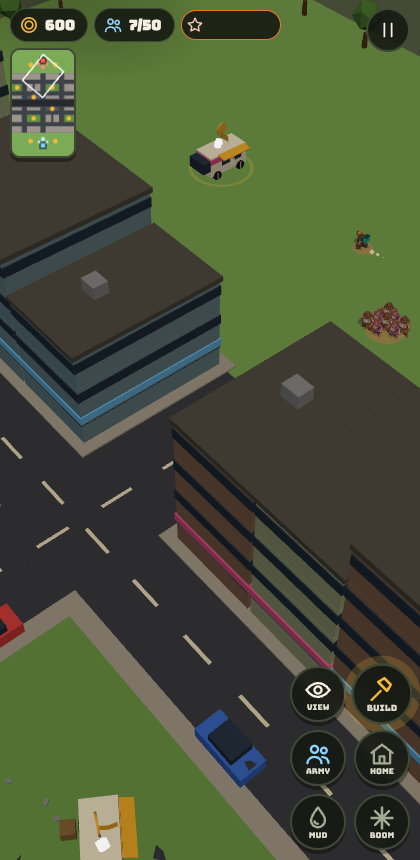
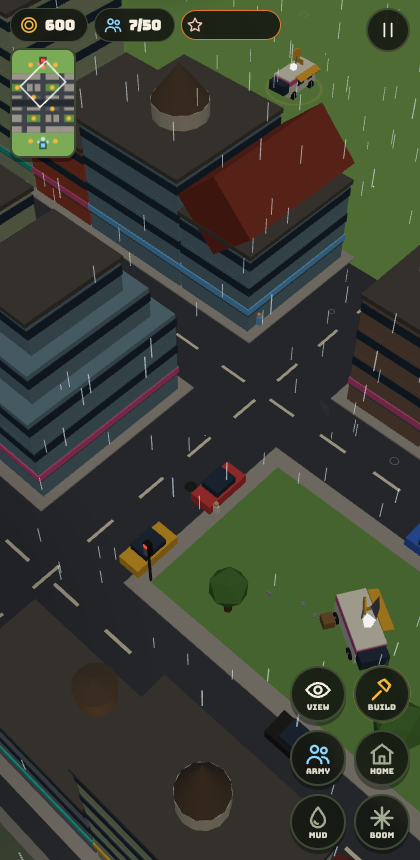
B133: city storefronts in six shapes (setback towers, pitched roofs, domes, water towers, spires)
Claude-Session: https://claude.ai/code/session_01FXzpagnksiDmMAqP3MTiXJ

diff --git a/src/render/world.js b/src/render/world.js
@@ -1,10 +1,10 @@
 // Static city: streets, sidewalks, buildings, parks, freeway trench + overpasses, ambient traffic.
 // Built once from map/layout.js. Mostly InstancedMesh so it stays cheap on phones.
-import { THREE, scene, mat, box, setOvercast } from './scene.js?v=131';
-import { CAM } from '../camera/camera.js?v=131';
-import { MAP, BLOCKS, CITY, TREES, PARKED, TRENCH, OVERPASSES, AVENUES, CROSS_STREETS, HOME_Z, inRect, walkH } from '../map/layout.js?v=131';
-import { hash } from '../util/math.js?v=131';
-import { emit } from '../fx/particles.js?v=131';
+import { THREE, scene, mat, box, setOvercast } from './scene.js?v=133';
+import { CAM } from '../camera/camera.js?v=133';
+import { MAP, BLOCKS, CITY, TREES, PARKED, TRENCH, OVERPASSES, AVENUES, CROSS_STREETS, HOME_Z, inRect, walkH } from '../map/layout.js?v=133';
+import { hash } from '../util/math.js?v=133';
+import { emit } from '../fx/particles.js?v=133';
 
 const COL = {
   asphalt: 0x3d4148, sidewalk: 0xa8a49a, grass: 0x6f9e50, lawn: 0x7cab58, lot: 0x4b4f56, stripe: 0xe8e2c8,
@@ -276,21 +276,48 @@ let lampHeads = null, windows = null;
 // sign and AC unit per storefront. syncCity() hides the floors the sim says are gone and drops the roof onto the new top.
 let city = null;
 function buildCity() {
-  const floors = [], bands = [], roofs = [], signs = [], acs = [], idx = [];
+  const floors = [], bands = [], signs = [], acs = [], idx = [];
+  const parts = { flat: [], gable: [], dome: [], drum: [], tank: [], cone: [] }; // roof pieces by shape
   CITY.forEach((b, i) => {
-    const fh = b.h / b.floors, first = floors.length;
+    const fh = b.h / b.floors, first = floors.length, col = FACADES[Math.floor(b.c * FACADES.length)];
+    // Setback towers narrow as they rise: lower half full size, then 80%, top floors 60%.
+    const shrink = (f) => (b.style !== 1 ? 1 : f < b.floors / 2 ? 1 : f < b.floors - 1 ? 0.8 : 0.6);
     for (let f = 0; f < b.floors; f++) {
-      floors.push({ x: b.x, y: fh * f + fh / 2, z: b.z, sx: b.sx, sy: fh, sz: b.sz, c: FACADES[Math.floor(b.c * FACADES.length)] });
-      bands.push({ x: b.x, y: fh * f + fh * 0.7, z: b.z, sx: b.sx + 0.12, sy: f === 0 ? 0.01 : 0.8, sz: b.sz + 0.12 });
+      const k = shrink(f);
+      floors.push({ x: b.x, y: fh * f + fh / 2, z: b.z, sx: b.sx * k, sy: fh, sz: b.sz * k, c: col });
+      bands.push({ x: b.x, y: fh * f + fh * 0.7, z: b.z, sx: b.sx * k + 0.12, sy: f === 0 ? 0.01 : 0.8, sz: b.sz * k + 0.12 });
     }
-    roofs.push({ x: b.x, y: b.h + 0.2, z: b.z, sx: b.sx + 0.3, sy: 0.4, sz: b.sz + 0.3 });
+    const top = shrink(b.floors - 1), w = b.sx * top, d = b.sz * top, rp = [];
+    const add = (kind, it) => { parts[kind].push({ ...it, ci: i }); rp.push([kind, parts[kind].length - 1]); };
+    add('flat', { x: b.x, y: b.h + 0.2, z: b.z, sx: w + 0.3, sy: 0.4, sz: d + 0.3 });
+    if (b.style === 2) { // a pitched roof: a box turned 45 deg about the ridge, sunk so only the top triangle shows
+      const m = Math.min(w, d) * 0.72, y = b.h + 0.4 + Math.min(w, d) * 0.22;
+      add('gable', w < d ? { x: b.x, y, z: b.z, sx: m, sy: m, sz: d * 1.02, rz: Math.PI / 4 } : { x: b.x, y, z: b.z, sx: w * 1.02, sy: m, sz: m, rx: Math.PI / 4 });
+    }
+    if (b.style === 3) { const r = Math.min(w, d) * 0.38; add('drum', { x: b.x, y: b.h + 0.4 + 0.6, z: b.z, sx: r, sy: 1.2, sz: r }); add('dome', { x: b.x, y: b.h + 1.6, z: b.z, sx: r, sy: r, sz: r }); }
+    if (b.style === 4) { const tx = b.x + w * 0.2, tz = b.z - d * 0.2; add('drum', { x: tx, y: b.h + 1.2, z: tz, sx: 0.08, sy: 2, sz: 0.08 }); add('tank', { x: tx, y: b.h + 2.6, z: tz, sx: 1.1, sy: 1.6, sz: 1.1 }); add('cone', { x: tx, y: b.h + 3.75, z: tz, sx: 1.25, sy: 0.7, sz: 1.25 }); }
+    if (b.style === 5) { add('drum', { x: b.x, y: b.h + 1, z: b.z, sx: Math.min(w, d) * 0.22, sy: 1.6, sz: Math.min(w, d) * 0.22 }); add('cone', { x: b.x, y: b.h + 3.4, z: b.z, sx: Math.min(w, d) * 0.22, sy: 3.2, sz: Math.min(w, d) * 0.22 }); }
     signs.push({ x: b.x, y: 2.4, z: b.z, sx: b.sx + 0.2, sy: 0.6, sz: b.sz + 0.2, c: SIGNS[Math.floor(b.sign * SIGNS.length)] });
     acs.push(b.ac ? { x: b.x + b.ac[0], y: b.h + 0.9, z: b.z + b.ac[1], sx: 1.4, sy: 1, sz: 1.2 } : { x: 0, y: -50, z: 0, sx: 0.001, sy: 0.001, sz: 0.001 });
-    idx.push({ first, n: b.floors, fh, shown: b.floors });
+    idx.push({ first, n: b.floors, fh, shown: b.floors, rp });
   });
   const fl = instanced(unitBox, 0, floors, true), wb = instanced(unitBox, COL.glass, bands);
   windows = wb; windows.material = new THREE.MeshLambertMaterial({ color: COL.glass });
-  city = { fl, wb, roofs: instanced(unitBox, COL.roof, roofs), signs: instanced(unitBox, 0, signs, true), acs: instanced(unitBox, 0x8f939a, acs), floors, bands, roofList: roofs, acList: acs, signList: signs, idx };
+  const GEO = { flat: unitBox, gable: unitBox, dome: new THREE.SphereGeometry(1, 14, 7, 0, Math.PI * 2, 0, Math.PI / 2), drum: new THREE.CylinderGeometry(1, 1, 1, 14), tank: new THREE.CylinderGeometry(1, 1, 1, 12), cone: new THREE.ConeGeometry(1, 1, 12) };
+  const RCOL = { flat: COL.roof, gable: 0x8a3b2e, dome: 0x6fa59a, drum: 0xc9c1ad, tank: 0x8a6a4a, cone: 0x5a4a3a };
+  const roofIM = {};
+  for (const k in parts) {
+    if (!parts[k].length) continue;
+    const im = new THREE.InstancedMesh(GEO[k], mat(RCOL[k]), parts[k].length);
+    parts[k].forEach((it, j) => { setPart(im, j, it, 0); });
+    scene.add(im); roofIM[k] = im;
+  }
+  city = { fl, wb, roofIM, parts, signs: instanced(unitBox, 0, signs, true), acs: instanced(unitBox, 0x8f939a, acs), floors, bands, acList: acs, signList: signs, idx };
+}
+const _roofE = new THREE.Euler();
+function setPart(im, j, it, yOff) {
+  _roofE.set(it.rx || 0, 0, it.rz || 0); Q.setFromEuler(_roofE);
+  M.compose(V.set(it.x, it.y + yOff, it.z), Q, Sv.set(it.sx, it.sy, it.sz)); im.setMatrixAt(j, M);
 }
 const _hide = new THREE.Matrix4().makeScale(0, 0, 0);
 function setBox(im, i, it, yOff = 0) { M.compose(V.set(it.x, it.y + yOff, it.z), Q.identity(), Sv.set(it.sx, it.sy, it.sz)); im.setMatrixAt(i, M); }
@@ -306,11 +333,12 @@ export function syncCity(S) {
       else { city.fl.setMatrixAt(d.first + f, _hide); city.wb.setMatrixAt(d.first + f, _hide); }
     }
     const drop = (d.n - want) * d.fh;
-    if (want > 0) { setBox(city.roofs, i, city.roofList[i], -drop); setBox(city.acs, i, city.acList[i], -drop); setBox(city.signs, i, city.signList[i]); }
-    else { city.roofs.setMatrixAt(i, _hide); city.acs.setMatrixAt(i, _hide); city.signs.setMatrixAt(i, _hide); }
+    for (const [k, j] of d.rp) { if (want > 0) setPart(city.roofIM[k], j, city.parts[k][j], -drop); else city.roofIM[k].setMatrixAt(j, _hide); }
+    if (want > 0) { setBox(city.acs, i, city.acList[i], -drop); setBox(city.signs, i, city.signList[i]); }
+    else { city.acs.setMatrixAt(i, _hide); city.signs.setMatrixAt(i, _hide); }
     d.shown = want; dirty = true;
   });
-  if (dirty) for (const im of [city.fl, city.wb, city.roofs, city.acs, city.signs]) im.instanceMatrix.needsUpdate = true;
+  if (dirty) for (const im of [city.fl, city.wb, city.acs, city.signs, ...Object.values(city.roofIM)]) im.instanceMatrix.needsUpdate = true;
 }
 /** Late in the day the street lamps light up and the office windows glow warm (k 0..1). */
 export function setDusk(k) {

diff --git a/index.html b/index.html
@@ -6,7 +6,7 @@
 <meta name="viewport" content="width=device-width,initial-scale=1,maximum-scale=1,user-scalable=no,viewport-fit=cover">
 <link rel="preconnect" href="https://fonts.googleapis.com">
 <link rel="stylesheet" href="https://fonts.googleapis.com/css2?family=Bungee&family=Lilita+One&display=swap">
-<link rel="stylesheet" href="./src/ui/style.css?v=131">
+<link rel="stylesheet" href="./src/ui/style.css?v=133">
 <!-- No build step needed: GitHub Pages serves this file straight from main, so bare 'three' imports resolve here. -->
 <script type="importmap">
 { "imports": { "three": "./vendor/three/three.module.min.js", "three/examples/jsm/": "./vendor/three/jsm/" } }
@@ -36,7 +36,7 @@
 <div id="box"></div>
 <div id="holdRing" hidden></div>
 <div id="menu" class="overlay">
-  <h1>Culture <em>Wars</em><span>GREYBOX 04 · <b id="build">B131</b></span></h1>
+  <h1>Culture <em>Wars</em><span>GREYBOX 04 · <b id="build">B133</b></span></h1>
   <div class="diff" id="diff"><button type="button" data-d="0" aria-label="Easy"><span class="ic" data-i="star"></span></button><button type="button" data-d="1" class="on" aria-label="Normal"><span class="ic" data-i="star"></span><span class="ic" data-i="star"></span></button><button type="button" data-d="2" aria-label="Hard"><span class="ic" data-i="star"></span><span class="ic" data-i="star"></span><span class="ic" data-i="star"></span></button><i class="sep"></i><button type="button" class="mode" data-m="vs" aria-label="Versus"><span class="ic" data-i="home"></span><small>VERSUS</small></button><button type="button" class="mode" data-m="hill" aria-label="King of the Hill"><span class="ic" data-i="flag"></span><small>HILL</small></button><button type="button" class="mode" data-m="cap" aria-label="Capture and Hold"><span class="ic" data-i="hold"></span><small>FLAGS</small></button><button type="button" class="mode" data-m="race" aria-label="Resource Race"><span class="ic" data-i="coin"></span><small>RACE</small></button><button type="button" class="mode" data-m="hero" aria-label="Hero vs Hero"><span class="ic" data-i="hero"></span><small>HEROES</small></button><button type="button" class="mode" data-m="down-w" aria-label="Downtown: you smash the city"><span class="ic" data-i="ball"></span><small>SMASH</small></button><button type="button" class="mode" data-m="down-b" aria-label="Downtown: you keep the city standing"><span class="ic" data-i="hammer"></span><small>FIX</small></button></div>
   <div class="picks">
     <button class="pick" data-f="bw" type="button"><span class="ic" data-i="truck"></span>Backwoods<small>FEWER · TOUGHER</small></button>
@@ -66,6 +66,6 @@
   setTimeout(function () { if (!window.__cwBooted) show('Game script did not start (old cached file? wait a few minutes and reload)'); }, 8000);
 })();
 </script>
-<script type="module" src="./src/main.js?v=131" onerror="__cwLoadFail()"></script>
+<script type="module" src="./src/main.js?v=133" onerror="__cwLoadFail()"></script>
 </body>
 </html>

diff --git a/src/main.js b/src/main.js
@@ -1,23 +1,23 @@
 // Entry point: wires sim + render + input + UI and runs the fixed-step loop.
-import { renderer, scene, camera, followSun, THREE, setTimeOfDay, sun } from './render/scene.js?v=131';
-import { buildWorld, updateWorld, setDusk, setRain, setLowWorld } from './render/world.js?v=131';
-import { syncRender, clearRender, bump } from './render/sync.js?v=131';
-import { handleEvents, updateFx, clearFx } from './fx/fx.js?v=131';
-import { newSim, getSim, step } from './sim/sim.js?v=131';
-import { TICK } from './config/factions.js?v=131';
-import { CAM, applyCam, resetCam, onResize } from './camera/camera.js?v=131';
-import { initInput, lockPageZoom } from './input/input.js?v=131';
-import { refreshHUD, resetHUD, updatePlaceBar, showTip } from './ui/hud.js?v=131';
-import { resetUI } from './ui/state.js?v=131';
-import { fillIcons, svg } from './ui/icons.js?v=131';
-import { noteAlerts, updateAlert, clearAlert } from './ui/alert.js?v=131';
-import { updateMinimap } from './ui/minimap.js?v=131';
-import { isMuted, setMuted } from './fx/sfx.js?v=131';
-import { loadChars } from './render/chars.js?v=131';
-import { emit } from './fx/particles.js?v=131';
-import { FC } from './render/models.js?v=131';
+import { renderer, scene, camera, followSun, THREE, setTimeOfDay, sun } from './render/scene.js?v=133';
+import { buildWorld, updateWorld, setDusk, setRain, setLowWorld } from './render/world.js?v=133';
+import { syncRender, clearRender, bump } from './render/sync.js?v=133';
+import { handleEvents, updateFx, clearFx } from './fx/fx.js?v=133';
+import { newSim, getSim, step } from './sim/sim.js?v=133';
+import { TICK } from './config/factions.js?v=133';
+import { CAM, applyCam, resetCam, onResize } from './camera/camera.js?v=133';
+import { initInput, lockPageZoom } from './input/input.js?v=133';
+import { refreshHUD, resetHUD, updatePlaceBar, showTip } from './ui/hud.js?v=133';
+import { resetUI } from './ui/state.js?v=133';
+import { fillIcons, svg } from './ui/icons.js?v=133';
+import { noteAlerts, updateAlert, clearAlert } from './ui/alert.js?v=133';
+import { updateMinimap } from './ui/minimap.js?v=133';
+import { isMuted, setMuted } from './fx/sfx.js?v=133';
+import { loadChars } from './render/chars.js?v=133';
+import { emit } from './fx/particles.js?v=133';
+import { FC } from './render/models.js?v=133';
 
-export const BUILD = 131; // written by `npm run bump`
+export const BUILD = 133; // written by `npm run bump`
 lockPageZoom();
 fillIcons();
 buildWorld();

diff --git a/src/render/sync.js b/src/render/sync.js
@@ -1,19 +1,19 @@
 // Mirrors sim state into the scene every frame. Reads the sim, never writes to it.
-import { THREE, scene, camera, mat, box, basic, ringMesh, disposeObj, casts } from './scene.js?v=131';
-import { makeMember, bldMesh, nodeMesh, formation, FC } from './models.js?v=131';
-import { makeChar, charsReady, play, CAST } from './chars.js?v=131';
-import { emit } from '../fx/particles.js?v=131';
-import { bark } from '../fx/sfx.js?v=131';
-import { TICK } from '../config/factions.js?v=131';
-import { walkH } from '../map/layout.js?v=131';
-import { NODE_AMOUNT, BLD, BUILD_RADIUS, FACTIONS } from '../config/factions.js?v=131';
-import { CAM } from '../camera/camera.js?v=131';
+import { THREE, scene, camera, mat, box, basic, ringMesh, disposeObj, casts } from './scene.js?v=133';
+import { makeMember, bldMesh, nodeMesh, formation, FC } from './models.js?v=133';
+import { makeChar, charsReady, play, CAST } from './chars.js?v=133';
+import { emit } from '../fx/particles.js?v=133';
+import { bark } from '../fx/sfx.js?v=133';
+import { TICK } from '../config/factions.js?v=133';
+import { walkH } from '../map/layout.js?v=133';
+import { NODE_AMOUNT, BLD, BUILD_RADIUS, FACTIONS } from '../config/factions.js?v=133';
+import { CAM } from '../camera/camera.js?v=133';
 const fac0 = (S) => FACTIONS[S.players[0].f];
-import { Q, pl, getSim } from '../sim/sim.js?v=131';
-import { UI } from '../ui/state.js?v=131';
-import { fxConfetti, fxDeath } from '../fx/fx.js?v=131';
+import { Q, pl, getSim } from '../sim/sim.js?v=133';
+import { UI } from '../ui/state.js?v=133';
+import { fxConfetti, fxDeath } from '../fx/fx.js?v=133';
 import { mergeGeometries } from 'three/examples/jsm/utils/BufferGeometryUtils.js';
-import { lerpAngle } from '../util/math.js?v=131';
+import { lerpAngle } from '../util/math.js?v=133';
 // Selection rings take your faction colour, washed toward white so they still pop on any ground.
 const selCol = () => { const S = getSim(), f = S && S.players[0].f; return f ? new THREE.Color(FC[f].main).lerp(new THREE.Color(0xffffff), 0.35).getHex() : 0xffffff; };
 

diff --git a/src/ui/hud.js b/src/ui/hud.js
@@ -1,16 +1,16 @@
 // HUD: resource chips, context panel, command buttons, floating placement confirm, long-press labels.
 // Buttons are described as data ("specs") each refresh; the DOM is rebuilt only when the set of buttons changes.
 // Every action goes through sim.command(); Q.* is used only for instant feedback (shake, dim).
-import { svg } from './icons.js?v=131';
-import { UI, select, selSquads } from './state.js?v=131';
-import { getSim, pl, fac, Q, command, count, cpUsed, cpCap, hqOf } from '../sim/sim.js?v=131';
-import { BLD, BUILD_KINDS, TRAIN_SLOTS, UPG, REQ } from '../config/factions.js?v=131';
-import { CAM, toggleView, focus } from '../camera/camera.js?v=131';
-import { camera } from '../render/scene.js?v=131';
-import { walkH } from '../map/layout.js?v=131';
-import { THREE } from '../render/scene.js?v=131';
-import { showHint } from './hint.js?v=131';
-import { sfx } from '../fx/sfx.js?v=131';
+import { svg } from './icons.js?v=133';
+import { UI, select, selSquads } from './state.js?v=133';
+import { getSim, pl, fac, Q, command, count, cpUsed, cpCap, hqOf } from '../sim/sim.js?v=133';
+import { BLD, BUILD_KINDS, TRAIN_SLOTS, UPG, REQ } from '../config/factions.js?v=133';
+import { CAM, toggleView, focus } from '../camera/camera.js?v=133';
+import { camera } from '../render/scene.js?v=133';
+import { walkH } from '../map/layout.js?v=133';
+import { THREE } from '../render/scene.js?v=133';
+import { showHint } from './hint.js?v=133';
+import { sfx } from '../fx/sfx.js?v=133';
 
 const panelEl = document.getElementById('panel'), cmdEl = document.getElementById('cmd'), queueEl = document.getElementById('queue');
 const placeBar = document.getElementById('placeBar'), tipEl = document.getElementById('tip');

diff --git a/src/map/layout.js b/src/map/layout.js
@@ -2,7 +2,7 @@
 // Map is 120 x 200 m, Y up. Player 0 base at z=+80, player 1 at z=-80.
 // Everything is defined for z > 0 and mirrored through the centre (x,z) -> (-x,-z),
 // so both sides get identical chokepoints (rotational symmetry).
-import { hash, smooth } from '../util/math.js?v=131';
+import { hash, smooth } from '../util/math.js?v=133';
 
 export const MAP = { w: 120, h: 200, cell: 2 };
 MAP.cols = MAP.w / MAP.cell;
@@ -117,7 +117,9 @@ for (const b of BLOCKS) {
     const x = alongX ? b.x0 + pos + w / 2 : (b.x0 + b.x1) / 2;
     const z = alongX ? (b.z0 + b.z1) / 2 : b.z0 + pos + w / 2;
     const sx = alongX ? w - 0.25 : b.x1 - b.x0, sz = alongX ? b.z1 - b.z0 : w - 0.25;
-    CITY.push({ x, z, sx, sz, h, floors: Math.max(2, Math.round(h / 3)), c: hash(seed, 5), sign: hash(seed, 6), ac: hash(seed, 7) > 0.4 ? [(hash(seed, 8) - 0.5) * sx * 0.5, (hash(seed, 9) - 0.5) * sz * 0.5] : null });
+    // style (Colin: blocks should not all be boxes): 0 flat roof, 1 setback tower, 2 gabled roof, 3 dome, 4 water tower, 5 spire
+    const style = Math.floor(hash(seed, 11) * 6);
+    CITY.push({ x, z, sx, sz, h, floors: Math.max(2, Math.round(h / 3)), style, c: hash(seed, 5), sign: hash(seed, 6), ac: style === 0 && hash(seed, 7) > 0.3 ? [(hash(seed, 8) - 0.5) * sx * 0.5, (hash(seed, 9) - 0.5) * sz * 0.5] : null });
     pos += w; k++;
   }
 }

diff --git a/src/input/input.js b/src/input/input.js
@@ -4,13 +4,13 @@
 //   hold then drag  = box select
 //   2 fingers       = pinch zoom + twist to rotate + drag to pan
 //   mouse: right-drag = box select, wheel = zoom; keys WASD/arrows pan, Q/E rotate, V ghost cam, Esc cancel
-import { THREE, camera, canvas } from '../render/scene.js?v=131';
-import { walkH } from '../map/layout.js?v=131';
-import { getSim, command } from '../sim/sim.js?v=131';
-import { UI, select, selSquads } from '../ui/state.js?v=131';
-import { CAM, panBy, clampCam, toggleView, pxPerUnit, fling } from '../camera/camera.js?v=131';
-import { fxMarker } from '../fx/fx.js?v=131';
-import { ack } from '../render/sync.js?v=131';
+import { THREE, camera, canvas } from '../render/scene.js?v=133';
+import { walkH } from '../map/layout.js?v=133';
+import { getSim, command } from '../sim/sim.js?v=133';
+import { UI, select, selSquads } from '../ui/state.js?v=133';
+import { CAM, panBy, clampCam, toggleView, pxPerUnit, fling } from '../camera/camera.js?v=133';
+import { fxMarker } from '../fx/fx.js?v=133';
+import { ack } from '../render/sync.js?v=133';
 
 const ray = new THREE.Raycaster(), ndc = new THREE.Vector2(), tmp = new THREE.Vector3();
 export function groundAt(cx, cy) {

diff --git a/src/fx/fx.js b/src/fx/fx.js
@@ -1,12 +1,12 @@
 // Visual effects. Reads sim events, never changes the sim.
 // To add an effect for a new mechanic: emit S.events.push({k:'myThing', ...}) in the sim,
 // then add a case in handleEvents below.
-import { THREE, scene, mat, cyl, basic, disposeObj } from '../render/scene.js?v=131';
-import { walkH, CITY } from '../map/layout.js?v=131';
-import { sfx } from './sfx.js?v=131';
-import { shake, CAM } from '../camera/camera.js?v=131';
-import { FC } from '../render/models.js?v=131';
-import { emit, updateParticles, clearParticles, burstHit, burstShot, burstCoins } from './particles.js?v=131';
+import { THREE, scene, mat, cyl, basic, disposeObj } from '../render/scene.js?v=133';
+import { walkH, CITY } from '../map/layout.js?v=133';
+import { sfx } from './sfx.js?v=133';
+import { shake, CAM } from '../camera/camera.js?v=133';
+import { FC } from '../render/models.js?v=133';
+import { emit, updateParticles, clearParticles, burstHit, burstShot, burstCoins } from './particles.js?v=133';
 
 const fx = [];
 function addFx(obj, life, upd) { scene.add(obj); fx.push({ obj, life, t: 0, upd }); }

diff --git a/src/sim/sim.js b/src/sim/sim.js
@@ -9,11 +9,11 @@
 import {
   TICK, START_CASH, BUILD_RADIUS, MAX_WORKERS, NODE_AMOUNT, GATHER_T, CARRY, BASE_INCOME, DEPOT_INCOME,
   COUNTER, REQ, UPG, UPT, BLD, FACTIONS,
-} from '../config/factions.js?v=131';
-import { MAP, NODES, BASES, CITY, walkH } from '../map/layout.js?v=131';
-import { markCircle, isBlocked, lineClear, nearestFree, findPath, blocked, cellOf, cellCenter, inGrid } from '../map/grid.js?v=131';
-import { mulberry32 } from '../util/math.js?v=131';
-import { aiStep } from './ai.js?v=131';
+} from '../config/factions.js?v=133';
+import { MAP, NODES, BASES, CITY, walkH } from '../map/layout.js?v=133';
+import { markCircle, isBlocked, lineClear, nearestFree, findPath, blocked, cellOf, cellCenter, inGrid } from '../map/grid.js?v=133';
+import { mulberry32 } from '../util/math.js?v=133';
+import { aiStep } from './ai.js?v=133';
 
 let S = null;
 export const getSim = () => S;

diff --git a/src/ui/minimap.js b/src/ui/minimap.js
@@ -1,8 +1,8 @@
 // Minimap, top-left under the resource chips. Fixed orientation: your base at the bottom (+z), enemy at the top.
 // Tap or drag on it to move the camera there. Static city is drawn once; units/buildings redraw ~10x a second.
-import { MAP, BLOCKS, TRENCH } from '../map/layout.js?v=131';
-import { CAM, focus } from '../camera/camera.js?v=131';
-import { getSim } from '../sim/sim.js?v=131';
+import { MAP, BLOCKS, TRENCH } from '../map/layout.js?v=133';
+import { CAM, focus } from '../camera/camera.js?v=133';
+import { getSim } from '../sim/sim.js?v=133';
 
 const cv = document.getElementById('mini'), ctx = cv.getContext('2d');
 const bg = document.createElement('canvas'), bctx = bg.getContext('2d');

diff --git a/src/ui/alert.js b/src/ui/alert.js
@@ -1,9 +1,9 @@
 // Under-attack alert: when something of yours is hit somewhere the camera is not looking, a red arrow pulses on
 // the screen edge pointing at it. Tap the arrow to fly there. Newest fight wins; it fades 5 s after the last hit.
-import { THREE, camera } from '../render/scene.js?v=131';
-import { walkH } from '../map/layout.js?v=131';
-import { focus } from '../camera/camera.js?v=131';
-import { svg } from './icons.js?v=131';
+import { THREE, camera } from '../render/scene.js?v=133';
+import { walkH } from '../map/layout.js?v=133';
+import { focus } from '../camera/camera.js?v=133';
+import { svg } from './icons.js?v=133';
 
 const el = document.getElementById('alert');
 el.innerHTML = svg('up');

diff --git a/src/render/chars.js b/src/render/chars.js
@@ -2,7 +2,7 @@
 // clips drives all of them: the clips come from three DONOR files and are retargeted onto each rig by bone name.
 // Nothing here is required: until the files load (or if they fail, e.g. the single-file artifact build) the
 // box placeholders in models.js are used, and sync.js swaps squads over once this reports ready.
-import { THREE } from './scene.js?v=131';
+import { THREE } from './scene.js?v=133';
 import { GLTFLoader } from 'three/examples/jsm/loaders/GLTFLoader.js';
 import { DRACOLoader } from 'three/examples/jsm/loaders/DRACOLoader.js';
 import { clone as skClone } from 'three/examples/jsm/utils/SkeletonUtils.js';
